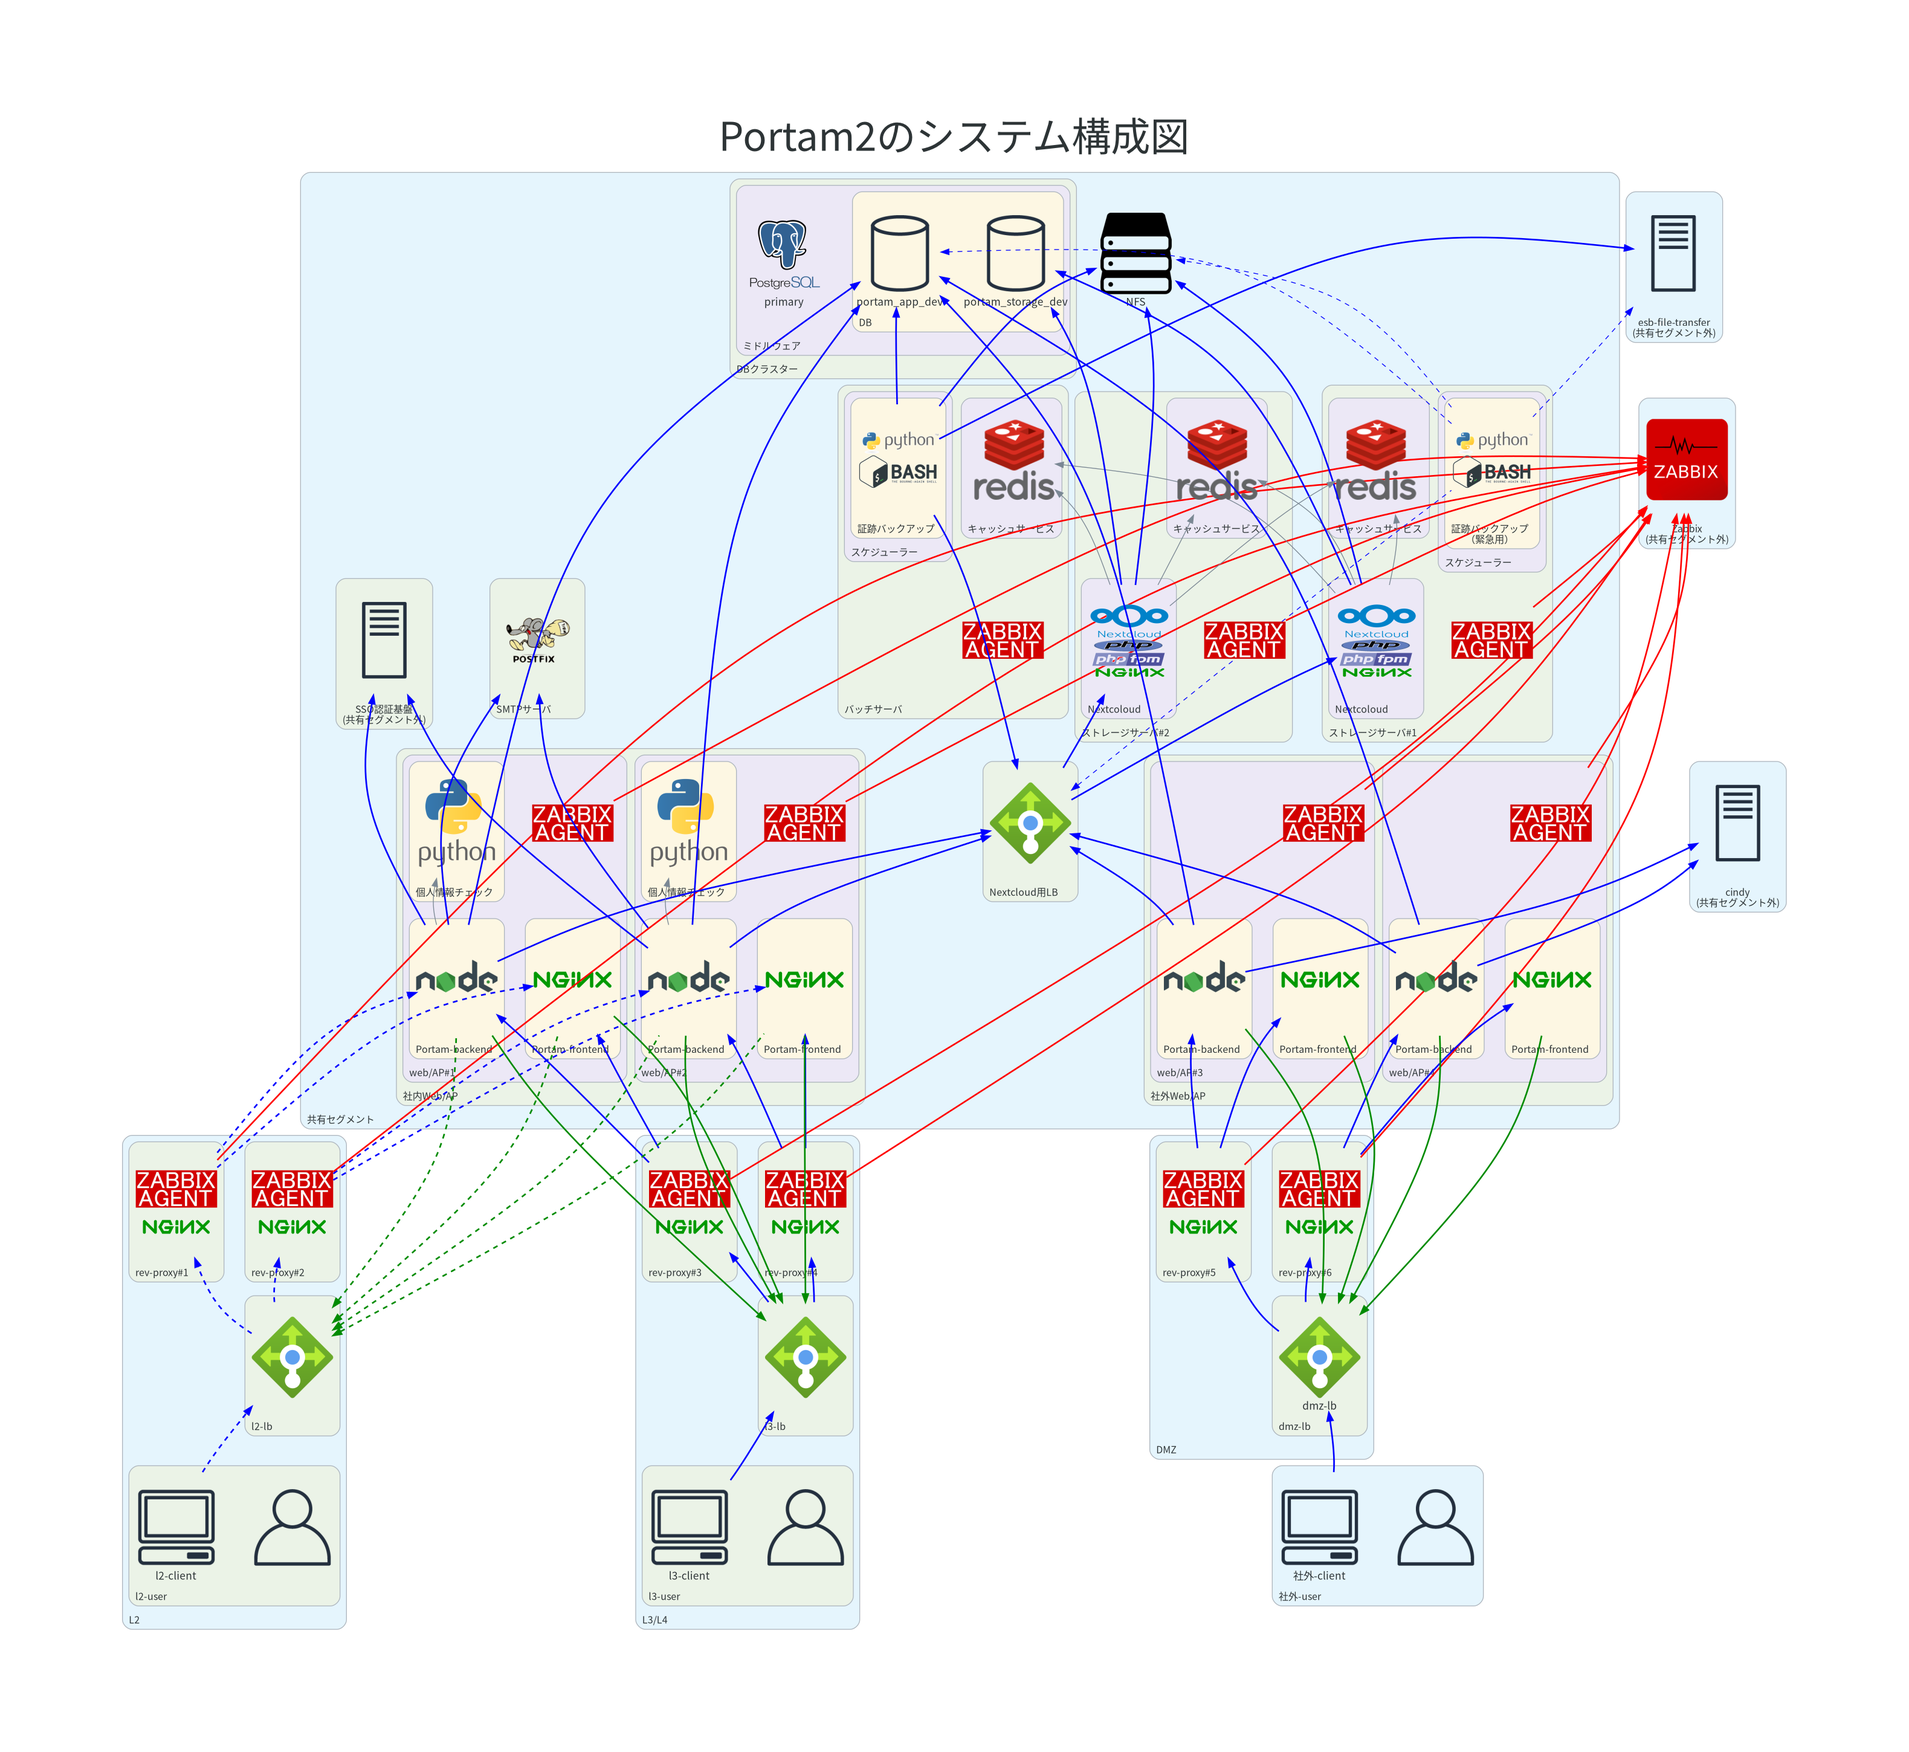
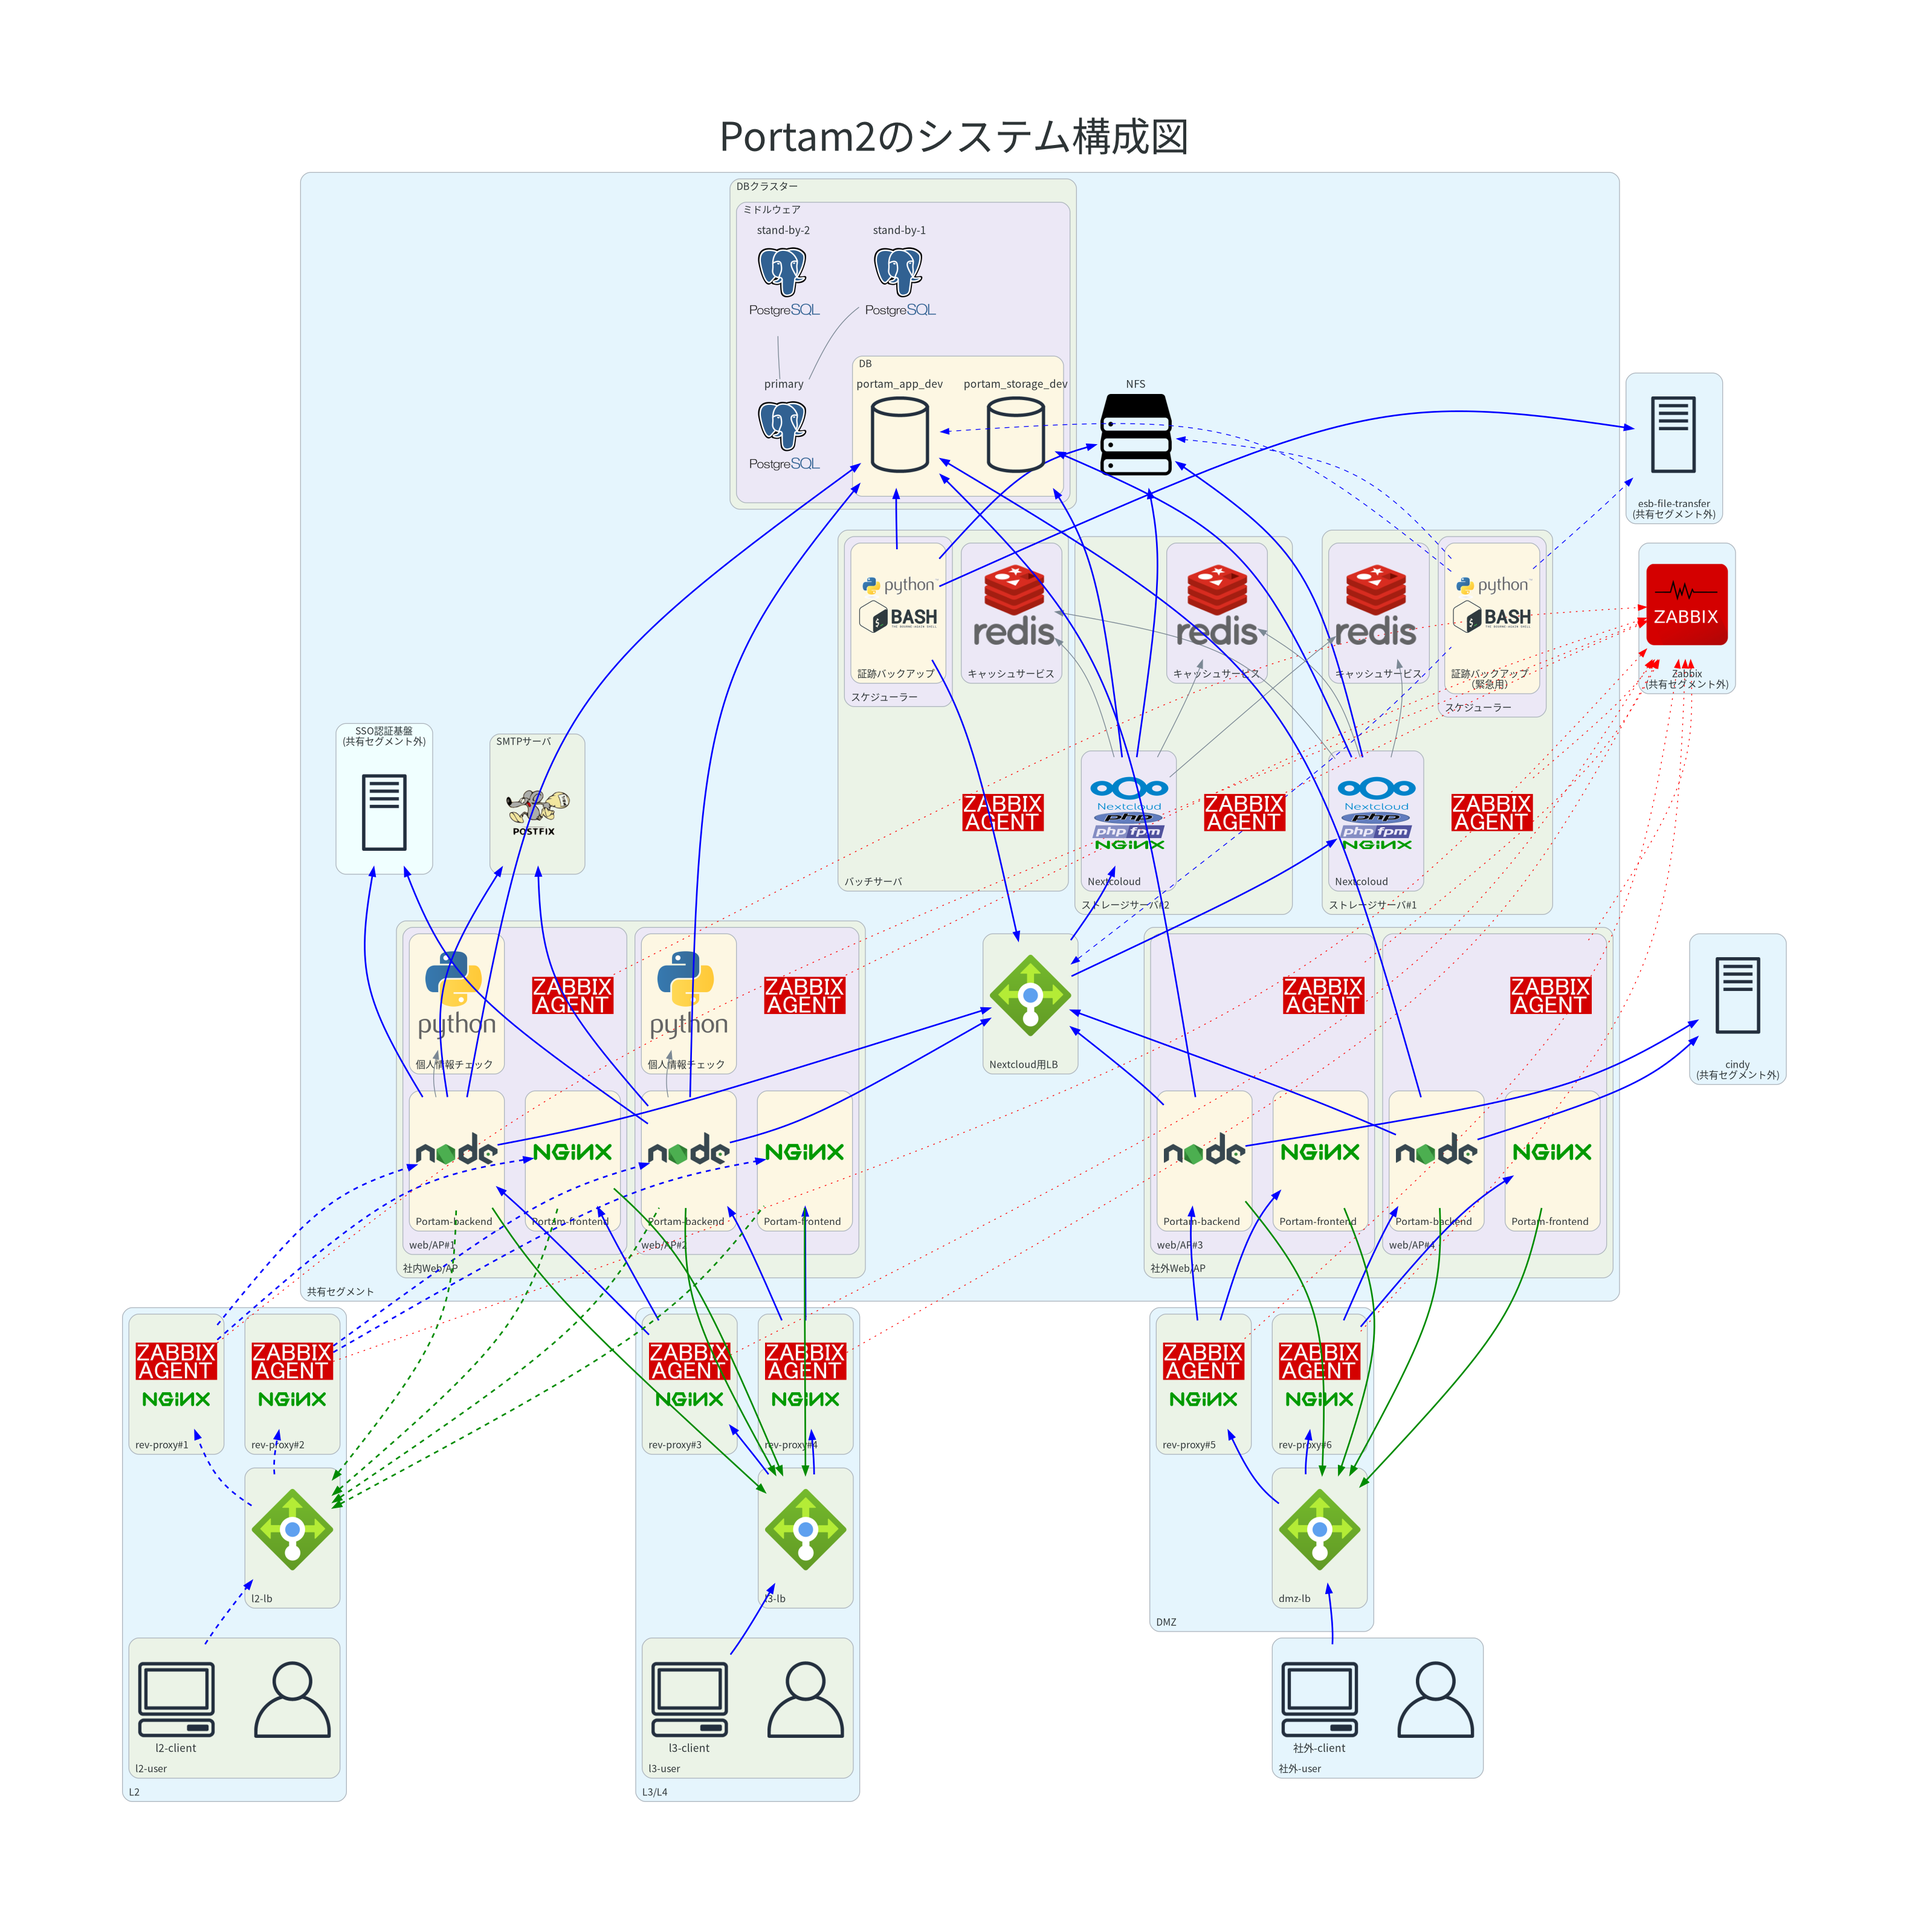
ダイアグラムの更新

Changed region(s): [[0.062, 0.0621, 0.9617, 0.9624], [0.062, 0.8382, 0.1861, 0.9624]]

diff --git a/portam2_system_diagram_2.py b/portam2_system_diagram_2.py
@@ -8,7 +8,6 @@ from diagrams.azure.network import LoadBalancers
 from diagrams.aws.general import TraditionalServer
 from diagrams.aws.general import Client
 from diagrams.aws.general import User
-# from diagrams.onprem.network import Nginx
 from diagrams.programming.language import Nodejs
 from diagrams.programming.language import Python
 from diagrams.onprem.monitoring import Zabbix
@@ -27,6 +26,10 @@ graph_attr = {
     "splines":"curved",
 }
 
+# node_bgcolor = "white"
+node_bgcolor = "red"
+node_labelloc = "t"
+
 with Diagram("Portam2のシステム構成図\n", filename="portam2_system_diagram", show=False, direction="BT",graph_attr=graph_attr):
 
     with Cluster("cindy\n(共有セグメント外)"):
@@ -38,8 +41,12 @@ with Diagram("Portam2のシステム構成図\n", filename="portam2_system_diagr
     with Cluster("Zabbix\n(共有セグメント外)"):
         za = Zabbix("")
 
+    # with Cluster("SSO認証基盤\n(共有セグメント外)"):
+    #     sso = TraditionalServer("")
+
     with Cluster("L2"):
         with Cluster("l2-user"):
+        # with Cluster("Bottom\lLeft\l"):
             l2u = User("")
             l2c = Client("l2-client")
         with Cluster("l2-lb"):
@@ -70,7 +77,7 @@ with Diagram("Portam2のシステム構成図\n", filename="portam2_system_diagr
 
     with Cluster("DMZ"):
         with Cluster("dmz-lb"):
-            dmzlb = LoadBalancers("dmz-lb")
+            dmzlb = LoadBalancers("")
 
         with Cluster("rev-proxy#5"):
             rp5 = Custom("", "./nginx-zabbix-argent.png")
@@ -84,9 +91,26 @@ with Diagram("Portam2のシステム構成図\n", filename="portam2_system_diagr
         outu = User("")
         outc = Client("社外-client")
 
+    # with Cluster("共有セグメント", graph_attr={"pencolor":"white", "bgcolor":"white"}):
     with Cluster("共有セグメント"):
 
-        with Cluster("SSO認証基盤\n(共有セグメント外)"):
+
+        # with Cluster("cindy\n(共有セグメント外)"):
+        #     cindy = TraditionalServer("")
+
+        # with Cluster("esb-file-transfer\n(共有セグメント外)"):
+        #     eft = TraditionalServer("")
+
+        # with Cluster("Zabbix\n(共有セグメント外)"):
+        #     za = Zabbix("")
+
+        with Cluster(
+                "SSO認証基盤\n(共有セグメント外)", 
+                graph_attr={
+                        "labelloc":"b", 
+                        "bgcolor":"azure"
+                    }
+                ):
             sso = TraditionalServer("")
 
         with Cluster("バッチサーバ"):
@@ -101,7 +125,12 @@ with Diagram("Portam2のシステム構成図\n", filename="portam2_system_diagr
             zbat >>  Edge(style="invis") >> r3
 
 
-        with Cluster("SMTPサーバ"):
+        with Cluster(
+                "SMTPサーバ", 
+                graph_attr = {
+                    "labelloc":"b", 
+                }
+            ):
             smtp = Custom("", "./Postfix.png")
 
         with Cluster("社内Web/AP"):
@@ -152,22 +181,38 @@ with Diagram("Portam2のシステム構成図\n", filename="portam2_system_diagr
                 # 位置調整用の不可視リンク
                 w4 >>  Edge(style="invis") >> za4
 
-        with Cluster("DBクラスター"):
-            with Cluster("ミドルウェア"):
+        with Cluster("DBクラスター", 
+                graph_attr = {
+                    "labelloc":"b", 
+                }
+        ):
+            with Cluster("ミドルウェア", 
+                graph_attr = {
+                    "labelloc":"b", 
+                }
+            ):
                 with Cluster("DB"):
-                    portam_app_dev = GenericDatabase("portam_app_dev")
+                    portam_app_dev = GenericDatabase(
+                        "portam_app_dev",
+                        bgcolor = node_bgcolor,
+                        labelloc = node_labelloc
+                    )
                         # portam_app_dev_SQL = SQL("")
                     # portam_app_dev_SQL >> portam_app_dev 
                 
-                    portam_storage_dev = GenericDatabase("portam_storage_dev")
+                    portam_storage_dev = GenericDatabase(
+                        "portam_storage_dev",
+                        bgcolor = node_bgcolor,
+                        labelloc = node_labelloc
+                    )
                         # portam_storage_dev_SQL = SQL("")
                     # portam_storage_dev_SQL >> portam_storage_dev 
 
-                # psr2 = Custom("stand-by-1", "./postgresql.png")
-                # psr1 = Custom("stand-by-2", "./postgresql.png")
-                psp = Custom("primary", "./postgresql.png")
-                # psp - psr1
-                # psp - psr2
+                psr1 = Custom("stand-by-2", "./postgresql.png", labelloc = node_labelloc)
+                psr2 = Custom("stand-by-1", "./postgresql.png", labelloc = node_labelloc)
+                psp = Custom("primary", "./postgresql.png" ,labelloc = node_labelloc)
+                psp - psr1
+                psp - psr2
 
         with Cluster("Nextcloud用LB"):
             stlb = LoadBalancers("")
@@ -196,7 +241,11 @@ with Diagram("Portam2のシステム構成図\n", filename="portam2_system_diagr
         # 位置調整用の不可視リンク
         # zs2 >>  Edge(style="invis") >> bls2
 
-        nfs = Storage("NFS")
+        nfs = Storage(
+            "NFS", 
+            bgcolor = node_bgcolor,
+            labelloc = node_labelloc
+        )
 
     # 位置調整用の不可視リンク
     py1 >>  Edge(style="invis") >> sso
@@ -232,6 +281,10 @@ with Diagram("Portam2のシステム構成図\n", filename="portam2_system_diagr
     # https://www.graphviz.org/docs/attrs/constraint/
     a1 >> Edge(color="blue", style="bold", constraint ="false") >> smtp
     a2 >> Edge(color="blue", style="bold", constraint ="false") >> smtp
+
+    # a1 >> Edge(color="blue", style="bold") >> smtp
+    # a2 >> Edge(color="blue", style="bold") >> smtp
+
 
     a1 >> Edge(color="blue",  style="bold") >> stlb
     a2 >> Edge(color="blue",  style="bold") >> stlb
@@ -306,31 +359,23 @@ with Diagram("Portam2のシステム構成図\n", filename="portam2_system_diagr
     w4 << Edge(color="green4",  style="bold") << dmzlb
     a4 << Edge(color="green4",  style="bold") << dmzlb
 
-    a1 >> Edge(color="blue",  style="bold") >> sso
-    a2 >> Edge(color="blue",  style="bold") >> sso
+    # # エッジの追加によるノードの移動を防ぐため、constraint ="false" とする
+    # # 詳細は以下
+    # # https://www.graphviz.org/docs/attrs/constraint/
+    # a1 >> Edge(color="blue", style="bold", constraint ="false") >> sso
+    # a2 >> Edge(color="blue", style="bold", constraint ="false") >> sso
+
+    a1 >> Edge(color="blue", style="bold") >> sso
+    a2 >> Edge(color="blue", style="bold") >> sso
 
     a3 >> Edge(color="blue",  style="bold") >> cindy
     a4 >> Edge(color="blue",  style="bold") >> cindy
 
-    # za1 >> Edge(color="red",  style="bold") >> za
-    # za2 >> Edge(color="red",  style="bold") >> za
-    # za3 >> Edge(color="red",  style="bold") >> za
-    # za4 >> Edge(color="red",  style="bold") >> za
-    # zs1 >> Edge(color="red",  style="bold") >> za
-    # zs2 >> Edge(color="red",  style="bold") >> za
-    # zbat >> Edge(color="red",  style="bold") >> za
-    [za1,za2,za3,za4,zs1,zs2] >> Edge(color="red",  style="bold") >> za
-
-    # rp1  >> Edge(color="red",  style="bold") >> za
-    # rp2  >> Edge(color="red",  style="bold") >> za
-    # rp3  >> Edge(color="red",  style="bold") >> za
-    # rp4  >> Edge(color="red",  style="bold") >> za
-    # rp5  >> Edge(color="red",  style="bold") >> za
-    # rp6  >> Edge(color="red",  style="bold") >> za
+    [za1,za2,za3,za4,zs1,zs2] >> Edge(color="red",  style="dotted") >> za
     
     # エッジの追加によるノードの移動を防ぐため、constraint ="false" とする
     # 詳細は以下
     # https://www.graphviz.org/docs/attrs/constraint/
-    [rp1,rp2,rp3,rp4,rp5,rp6] >> Edge(color="red",  style="bold", constraint ="false") >> za
+    [rp1,rp2,rp3,rp4,rp5,rp6] >> Edge(color="red",  style="dotted", constraint ="false") >> za
 
 

diff --git a/test.py b/test.py
@@ -1,23 +1,26 @@
-from diagrams import Diagram, Cluster, Edge
-from diagrams.oci.compute import VM
+from diagrams import Diagram, Node, Cluster
 
-graph_attr = {
-    "layout":"dot",
-    "compound":"true",
-    "splines":"spline",
-    }
+with Diagram("\nlabel location", show=False):
 
-with Diagram("cluster to cluster edge", graph_attr=graph_attr, show=False) as diag:
+    with Cluster(
+        "Bottom\\rRight\\r",
+        graph_attr={
+            "labelloc":"b", 
+        }
+    ):
 
-    with Cluster("hoge2"):
-        with Cluster("hoge"):
-            with Cluster("Cluster 1"):
-                c1node12 = VM("c1node11")
+        bot_rgt = Node("Bottom\\rRight\\r", labelloc="b")
+        bot_cen = Node("Bottom\nCenter", labelloc="b")
+        bot_lft = Node("Bottom\lLeft\l", labelloc="b")
 
-    with Cluster("Cluster 2"):
-        c2node1 = VM("c2node1")
+        cen_rgt = Node("Center\\rRight\\r", labelloc="c")
+        cen_cen = Node("Center\nCenter", labelloc="c")
+        cen_lft = Node("Center\lLeft\l", labelloc="c")
 
-    # c1node12 << Edge(color="red", ltail="cluster_Cluster 1", lhead="cluster_Cluster 2") << c2node1
-    c1node12 >> Edge(color="red",style="dashed", lhead="cluster_Cluster 2") >> c2node1
+        top_rgt = Node("Top\\rRight\\r", labelloc="t")
+        top_lft = Node("Top\lLeft\l", labelloc="t")
+        top_cen = Node("Top\nCenter", labelloc="t")
 
-diag
+    bot_lft - bot_cen - bot_rgt
+    cen_lft - cen_cen - cen_rgt
+    top_lft - top_cen - top_rgt
